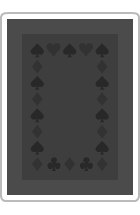
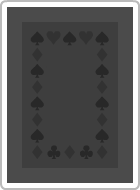
- Center cards - Manage alll grid sizes - Refactor - Update cards

Changed region(s): [[0.0, 0.8947, 1.0, 1.0], [0.0, 0.0, 1.0, 0.1053]]

diff --git a/61-Milestone-Projects28-30/Milestone-Projects28-30/CardSize.swift b/61-Milestone-Projects28-30/Milestone-Projects28-30/CardSize.swift
@@ -1,0 +1,162 @@
+//
+//  CardSize.swift
+//  Milestone-Projects28-30
+//
+//  Created by clarknt on 2019-08-04.
+//  Copyright © 2019 clarknt. All rights reserved.
+//
+
+import UIKit
+
+class CardSize {
+    var imageSize: CGSize
+    var gridSide1: Int
+    var gridSide2: Int
+    
+    init(imageSize: CGSize, gridSide1: Int, gridSide2: Int) {
+        self.imageSize = imageSize
+        self.gridSide1 = gridSide1
+        self.gridSide2 = gridSide2
+    }
+    
+    func getCardSize(collectionView: UICollectionView) -> CGSize {
+        let width = collectionView.frame.size.width
+        let height = collectionView.frame.size.height
+        
+        let layoutMargins = collectionView.layoutMargins
+        let leftRightMargin = layoutMargins.left + layoutMargins.right
+        let topBottomMargin = layoutMargins.top + layoutMargins.bottom
+        
+        // ignore section insets and spacing between cards, they will be computed later
+        var availableWidth = width - leftRightMargin
+        var availableHeight = height - topBottomMargin
+        
+        // optimize cards layout to make best use of the available space
+        let (widthCardNumber, heightCardNumber) = getWidthHeightCardNumber(availableWidth: availableWidth, availableHeight: availableHeight)
+        
+        // card size with no section insets and spacing between cards
+        var cardWidth = availableWidth / widthCardNumber
+        var cardHeight = availableHeight / heightCardNumber
+        
+        // size of spacing between cards, and minimum size of section insets
+        let widthSpacing = floor(min(cardWidth, cardHeight) / 10)
+        let heightSpacing = widthSpacing
+        
+        let layout = collectionView.collectionViewLayout as? UICollectionViewFlowLayout
+        
+        // update spacing between cards
+        layout?.minimumInteritemSpacing = heightSpacing
+        layout?.minimumLineSpacing = widthSpacing
+        
+        // add spacing between cards and a minimum section inset
+        availableWidth -= widthSpacing * (widthCardNumber + 1)
+        availableHeight -= heightSpacing * (heightCardNumber + 1)
+        
+        // card size with spacing between cards and minimum section inset
+        cardWidth = availableWidth / widthCardNumber
+        cardHeight = availableHeight / heightCardNumber
+        
+        // difference between computed size and actual image size
+        let widthDifference = cardWidth - (cardHeight * imageSize.width / imageSize.height)
+        let heightDifference = cardHeight - (cardWidth * imageSize.height / imageSize.width)
+        
+        // compute section insets to push cards towards the center while having an even spacing
+        if widthDifference > heightDifference {
+            let totalDifference = widthDifference * widthCardNumber
+            let leftRightSectionInset = floor(widthSpacing + (totalDifference / 2))
+            let topBottomSectionInset = heightSpacing
+            
+            // update section insets
+            layout?.sectionInset = UIEdgeInsets(top: topBottomSectionInset, left: leftRightSectionInset, bottom: topBottomSectionInset, right: leftRightSectionInset)
+            
+            // update available width with new insets
+            availableWidth -= totalDifference
+        }
+        else if heightDifference > widthDifference {
+            let totalDifference = heightDifference * heightCardNumber
+            let topBottomSectionInset = floor(heightSpacing + (totalDifference / 2))
+            let leftRightSectionInset = widthSpacing
+            
+            // update section insets
+            layout?.sectionInset = UIEdgeInsets(top: topBottomSectionInset, left: leftRightSectionInset, bottom: topBottomSectionInset, right: leftRightSectionInset)
+            
+            // update available height with new insets
+            availableHeight -= totalDifference
+        }
+        
+        // rounding will cause issues with total size
+        // to overcome this, floor each card, then add the remainder to the section insets
+        cardWidth = floor(availableWidth / widthCardNumber)
+        cardHeight = floor(availableHeight / heightCardNumber)
+        
+        let widthRemainder = floor((availableWidth - (cardWidth * widthCardNumber)) / 2)
+        let heightRemainder = floor((availableHeight - (cardHeight * heightCardNumber)) / 2)
+        
+        if let layout = layout {
+            let left = layout.sectionInset.left + widthRemainder
+            let right = layout.sectionInset.right + widthRemainder
+            let top = layout.sectionInset.top + heightRemainder
+            let bottom = layout.sectionInset.bottom + heightRemainder
+            
+            layout.sectionInset = UIEdgeInsets(top: top, left: left, bottom: bottom, right: right)
+        }
+        
+        guard cardWidth > 0 && cardHeight > 0 else {
+            fatalError("Too many cards to display")
+        }
+        
+        return CGSize(width: cardWidth, height: cardHeight)
+    }
+    
+    func getWidthHeightCardNumber(availableWidth: CGFloat, availableHeight: CGFloat) -> (widthCardNumber: CGFloat, heightCardNumber: CGFloat) {
+        // find out which of gridSide1, gridSide2 makes more sense to be applied
+        // to width or height in order to maximize screen space taken by the cards
+        
+        // landscape ratio
+        if availableWidth > availableHeight {
+            let availableRatio = availableWidth / availableHeight
+
+            let gridSide = getSideWithClosestRatio(referenceRatio: availableRatio, imageSide1: imageSize.width, imageSide2: imageSize.height)
+
+            let widthCardNumber = CGFloat(gridSide == gridSide1 ? gridSide1 : gridSide2)
+            let heightCardNumber = CGFloat(gridSide == gridSide1 ? gridSide2 : gridSide1)
+            
+            return (widthCardNumber: widthCardNumber, heightCardNumber: heightCardNumber)
+        }
+            
+        // portrait ratio
+        let availableRatio = availableHeight / availableWidth
+        
+        let gridSide = getSideWithClosestRatio(referenceRatio: availableRatio, imageSide1: imageSize.height, imageSide2: imageSize.width)
+        
+        let heightCardNumber = CGFloat(gridSide == gridSide1 ? gridSide1 : gridSide2)
+        let widthCardNumber = CGFloat(gridSide == gridSide1 ? gridSide2 : gridSide1)
+
+        return (widthCardNumber: widthCardNumber, heightCardNumber: heightCardNumber)
+    }
+    
+    func getSideWithClosestRatio(referenceRatio: CGFloat, imageSide1: CGFloat, imageSide2: CGFloat) -> Int {
+        // get grid side that best matches the given ratio when each grid cell is an image of size imageSide1 / imageSide2
+        
+        let gridSide1Ratio = imageSide1 * CGFloat(gridSide1) / (imageSide2 * CGFloat(gridSide2))
+        let gridSide2Ratio = imageSide1 * CGFloat(gridSide2) / (imageSide2 * CGFloat(gridSide1))
+
+        let gridSide1IsClosest: Bool
+
+        // both grids of images oriented in the same direction as available space
+        if gridSide1Ratio >= 1 && gridSide2Ratio >= 1 {
+            // pick the closest ratio
+            gridSide1IsClosest = abs(gridSide1Ratio - referenceRatio) <= abs(gridSide2Ratio - referenceRatio)
+        }
+        else if gridSide1Ratio < 1 && gridSide2Ratio < 1{
+            // none oriented correctly: pick the closest to 1
+            gridSide1IsClosest = gridSide1Ratio >= gridSide2Ratio
+        }
+        else {
+            // pick the one that is oriented in the same direction as available space
+            gridSide1IsClosest = gridSide1Ratio >= 1
+        }
+
+        return gridSide1IsClosest ? gridSide1 : gridSide2
+    }
+}

diff --git a/61-Milestone-Projects28-30/Milestone-Projects28-30/GameViewController.swift b/61-Milestone-Projects28-30/Milestone-Projects28-30/GameViewController.swift
@@ -13,14 +13,46 @@ class GameViewController: UICollectionViewController, UICollectionViewDelegateFl
     var cards = [Card]()
     var flippedCards = [(position: Int, card: Card)]()
     var removeFlippedCardsTask: DispatchWorkItem!
+    var backImageSize: CGSize!
+    var cardSize: CardSize!
     
-    // too high values will have spacing between cells becoming larger than screen
-    // exemple on iPhone XS, limit is around 60x30 (values unplayable anyway)
-    let cardsLongNumber = 4
-    let cardsShortNumber = 3
+    var combinations = [
+        (1, 4),  (2, 2),  //   4
+        (1, 6),  (2, 3),  //   6
+        (1, 8),  (2, 4),  //   8
+        (1, 10), (2, 5),  //  10
+        (2, 6),  (3, 4),  //  12
+        (2, 7),           //  14
+        (2, 8),  (4, 4),  //  16
+        (2, 9),  (3, 6),  //  18
+        (2, 10), (4, 5),  //  20
+        (3, 8),  (4, 6),  //  24
+        (4, 7),           //  28
+        (3, 10), (6, 5),  //  30
+        (4, 8),           //  32
+        (4, 9),  (6, 6),  //  36
+        (4, 10), (5, 8),  //  40
+        (6, 7),           //  42
+        (6, 8),           //  48
+        (5, 10),          //  50
+        (6, 9),  (7, 8),  //  54
+        (6, 10),          //  60
+        (8, 8),           //  64
+        (7, 10),          //  70
+        (8, 9),           //  72
+        (8, 10),          //  80
+        (9, 10),          //  90
+        (10, 10)          // 100
+    ]
+    var currentCombination = 0
+    
+    var gridSide1 = 3
+    var gridSide2 = 4
     
     let cardsDirectory = "Cards.bundle/"
-    let currentCards = "Blocks"
+    var currentCards = "LastGuardian"
+
+//    var combinationButtonItem: UIBarButtonItem!
     
     override func viewDidLoad() {
         super.viewDidLoad()
@@ -29,19 +61,23 @@ class GameViewController: UICollectionViewController, UICollectionViewDelegateFl
         
         navigationItem.leftBarButtonItem = UIBarButtonItem(title: "New game", style: .plain, target: self, action: #selector(newGame))
 
-//        navigationItem.rightBarButtonItem = UIBarButtonItem(title: "Settings", style: .plain, target: self, action: #selector(settings))
+//        combinationButtonItem = UIBarButtonItem(title: "\(gridSide1), \(gridSide2)", style: .plain, target: self, action: #selector(settings))
+//        navigationItem.rightBarButtonItem = combinationButtonItem
 
         // some iPads don't automatically refresh the collection view when rotated
         NotificationCenter.default.addObserver(forName: UIDevice.orientationDidChangeNotification, object: nil, queue: .main, using: didRotate)
+        
+        // values will be overriden later
+        cardSize = CardSize(imageSize: CGSize(width: 50, height: 50), gridSide1: gridSide1, gridSide2: gridSide2)
         
         newGame()
     }
 
     @objc func newGame() {
-        guard (cardsLongNumber * cardsShortNumber) % 2 == 0 else {
+        guard (gridSide1 * gridSide2) % 2 == 0 else {
             fatalError("Odd number of cards")
         }
-
+        
         cards = [Card]()
         resetFlippedCards()
         
@@ -61,7 +97,17 @@ class GameViewController: UICollectionViewController, UICollectionViewDelegateFl
     }
     
 //    @objc func settings() {
+//        currentCombination += 1
+//        if currentCombination >= combinations.count {
+//            currentCombination = 0
+//        }
 //
+//        (gridSide1, gridSide2) = combinations[currentCombination]
+//        combinationButtonItem.title = "\(gridSide1), \(gridSide2)"
+//        cardSize.gridSide1 = gridSide1
+//        cardSize.gridSide2 = gridSide2
+//
+//        newGame()
 //    }
     
     func loadCards() {
@@ -69,6 +115,7 @@ class GameViewController: UICollectionViewController, UICollectionViewDelegateFl
         var frontImages = [String]()
         
         let urls = Bundle.main.urls(forResourcesWithExtension: nil, subdirectory: cardsDirectory + currentCards)!
+        
         for url in urls {
             if url.lastPathComponent.starts(with: "back.") {
                 backImage = url.path
@@ -78,10 +125,12 @@ class GameViewController: UICollectionViewController, UICollectionViewDelegateFl
             }
         }
         
-        // no back card image found
+        // get image size
         guard backImage != nil else { fatalError("No back image found") }
+        guard let size = UIImage(named: backImage!)?.size else { fatalError("Cannot get image size") }
+        cardSize.imageSize = size
 
-        let cardsNumber = cardsLongNumber * cardsShortNumber
+        let cardsNumber = gridSide1 * gridSide2
         
         // more images than required grid
         while frontImages.count > cardsNumber / 2 {
@@ -200,45 +249,6 @@ class GameViewController: UICollectionViewController, UICollectionViewDelegateFl
     }
     
     func collectionView(_ collectionView: UICollectionView, layout collectionViewLayout: UICollectionViewLayout, sizeForItemAt indexPath: IndexPath) -> CGSize {
-        return getCardSize(collectionView: collectionView)
-    }
-    
-    func getCardSize(collectionView: UICollectionView) -> CGSize {
-        let width = collectionView.frame.size.width
-        let height = collectionView.frame.size.height
-
-        let layoutMargins = collectionView.layoutMargins
-        let leftRightMargin = layoutMargins.left + layoutMargins.right
-        let topBottomMargin = layoutMargins.top + layoutMargins.bottom
-        
-        let layout = collectionView.collectionViewLayout as? UICollectionViewFlowLayout
-        let minInterimSpacing = layout?.minimumInteritemSpacing ?? 0
-        let minLineSpacing = layout?.minimumLineSpacing ?? 0
-        
-        var widthCardNumber: CGFloat
-        var heightCardNumber: CGFloat
-
-        // portrait
-        if height > width {
-            widthCardNumber = CGFloat(cardsShortNumber)
-            heightCardNumber = CGFloat(cardsLongNumber)
-        }
-        // landscape
-        else {
-            widthCardNumber = CGFloat(cardsLongNumber)
-            heightCardNumber = CGFloat(cardsShortNumber)
-        }
-        
-        let availableWidth = width - leftRightMargin - minInterimSpacing * (widthCardNumber - 1)
-        let availableHeight = height - topBottomMargin - minLineSpacing * (heightCardNumber - 1)
-        
-        guard availableWidth > widthCardNumber && availableHeight > heightCardNumber else {
-            fatalError("Too many cards to display")
-        }
-        
-        let cardWidth = availableWidth / widthCardNumber
-        let cardHeight = availableHeight / heightCardNumber
-
-        return CGSize(width: cardWidth, height: cardHeight)
+        return cardSize.getCardSize(collectionView: collectionView)
     }
 }

diff --git a/61-Milestone-Projects28-30/Milestone-Projects28-30/CardCell.swift b/61-Milestone-Projects28-30/Milestone-Projects28-30/CardCell.swift
@@ -98,20 +98,28 @@ class CardCell: UICollectionViewCell {
         // cells are reused by the collection view, make sure to clean everything
         cancelAnimations()
 
+        var flipTarget: CardState
+        var scaleFactor: CGFloat
+        
         // reset card position
         switch state {
         case .back:
-            animateFlipTo(state: .back, duration: 0)
-            transform = CGAffineTransform(scaleX: 1, y: 1)
+            flipTarget = .back
+            scaleFactor = 1
         case .front:
-            animateFlipTo(state: .front, duration: 0)
-            transform = CGAffineTransform(scaleX: 1, y: 1)
+            flipTarget = .front
+            scaleFactor = 1
         case .matched:
-            animateFlipTo(state: .front, duration: 0)
-//            transform = CGAffineTransform(scaleX: 0.6, y: 0.6)
+            flipTarget = .front
+            scaleFactor = 0.6
         case .complete:
-            animateFlipTo(state: .front, duration: 0)
-            transform = CGAffineTransform(scaleX: 1, y: 1)
+            flipTarget = .front
+            scaleFactor = 1
+        }
+
+        animateFlipTo(state: flipTarget, duration: 0)
+        DispatchQueue.main.async { [weak self] in
+            self?.transform = CGAffineTransform(scaleX: scaleFactor, y: scaleFactor)
         }
     }
     
